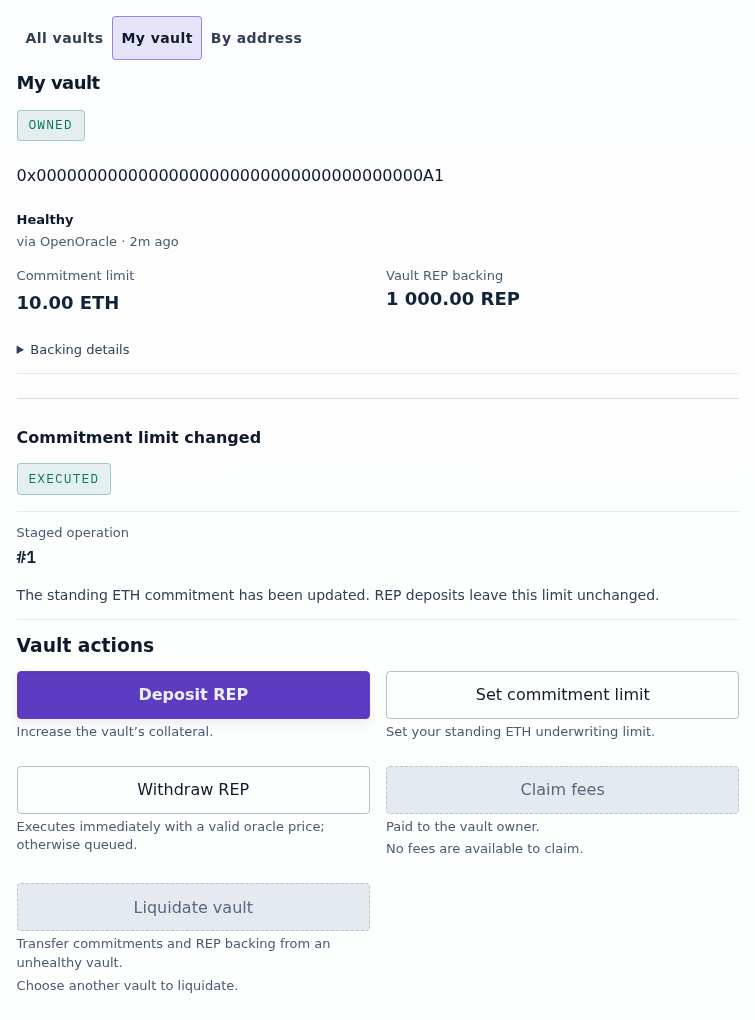
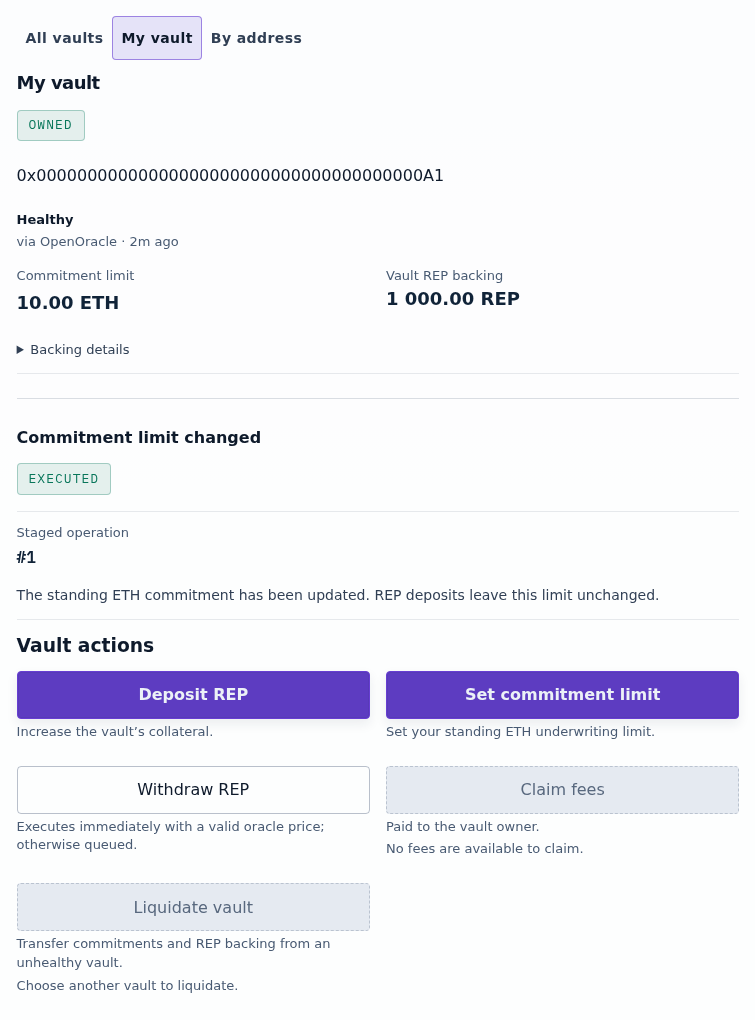
Clarify Statoblast vault funding and commitment actions

Changed region(s): [[0.4874, 0.6382, 1.0, 0.7294]]

diff --git a/ui/statoblast/ts/tests/features/security-pools/securityVaultSection.test.tsx b/ui/statoblast/ts/tests/features/security-pools/securityVaultSection.test.tsx
@@ -1444,7 +1444,7 @@ describe('SecurityVaultSection', () => {
 		cleanupRenderedComponent = undefined
 	})
 
-	test('uses the loaded pool minimum for a new-vault deposit', async () => {
+	test.each(['', '0', '1', '20'])('uses the loaded pool minimum for a new-vault deposit of %s', async depositAmount => {
 		const configuredMinimum = 30n * 10n ** 18n
 		const renderedComponent = await renderIntoDocument(
 			<SecurityVaultSection
@@ -1459,7 +1459,7 @@ describe('SecurityVaultSection', () => {
 						minimumVaultRepDepositAttoRep: configuredMinimum,
 					}),
 					securityVaultForm: {
-						depositAmount: '20',
+						depositAmount,
 						repWithdrawAmount: '',
 						targetHealthFactor: '2',
 						securityPoolAddress: zeroAddress,
@@ -1475,6 +1475,29 @@ describe('SecurityVaultSection', () => {
 		const documentQueries = within(document.body)
 		fireEvent.click(documentQueries.getByRole('button', { name: 'Deposit REP' }))
 		expectTransactionButtonDisabled(documentQueries.getByRole('dialog', { name: 'Deposit REP' }), 'Deposit REP', 'New vaults require at least 30\u00a0REP in the first deposit.')
+	})
+
+	test('promotes the commitment launcher when REP is deposited and keeps deposit primary', async () => {
+		const backing = signal(0n)
+		const props = createSecurityVaultSectionProps({ modalFirst: true })
+		const Harness = () => <SecurityVaultSection {...props} securityVaultDetails={createSecurityVaultDetails({ vaultAttoRepBacking: backing.value, underwritingLimitAttoEth: 0n, disputeStakedAttoRep: 0n, claimableFeesAttoEth: 0n })} />
+		cleanupRenderedComponent = (await renderIntoDocument(<Harness />)).cleanup
+		const deposit = within(document.body).getByRole('button', { name: 'Deposit REP' })
+		const commitment = within(document.body).getByRole('button', { name: 'Set commitment limit' })
+		expect(deposit.classList.contains('primary')).toBe(true)
+		expect(commitment.classList.contains('secondary')).toBe(true)
+		await act(() => {
+			backing.value = 1n
+		})
+		expect(deposit.classList.contains('primary')).toBe(true)
+		expect(commitment.classList.contains('primary')).toBe(true)
+		expect(commitment.hasAttribute('disabled')).toBe(false)
+		fireEvent.click(commitment)
+		expect(within(document.body).getByRole('dialog', { name: 'Set commitment limit' })).not.toBeNull()
+		await act(() => {
+			backing.value = 0n
+		})
+		expect(commitment.classList.contains('secondary')).toBe(true)
 	})
 
 	test('checks a first deposit against the pool totals read with the vault, not the pool listing', async () => {

diff --git a/ui/statoblast/ts/tests/features/security-pools/securityVaultGuards.test.ts b/ui/statoblast/ts/tests/features/security-pools/securityVaultGuards.test.ts
@@ -246,6 +246,17 @@ describe('security vault guards', () => {
 })
 
 describe('vault deposit minimum availability', () => {
+	test('explains the first-deposit minimum before an amount or approval is supplied', () => {
+		const base = { approvalSatisfied: false, currentVaultRepBackingAttoRep: 0n, depositAmount: 0n, isDepositBelowMinimum: false, minimumVaultRepDepositAttoRep: 110n * ATTO_ETH_PER_ETH, walletRepShortfallAttoRep: undefined }
+		expect(getVaultDepositGuardMessage(base)).toBe('New vaults require at least 110\u00a0REP in the first deposit.')
+		expect(getVaultDepositGuardMessage({ ...base, currentVaultRepBackingAttoRep: ATTO_ETH_PER_ETH })).toBeUndefined()
+		expect(getVaultDepositGuardMessage({ ...base, currentVaultRepBackingAttoRep: undefined })).toBeUndefined()
+		expect(getVaultDepositGuardMessage({ ...base, depositAmount: undefined })).toBe('Enter a valid REP deposit amount.')
+		expect(getVaultDepositGuardMessage({ ...base, depositAmount: -ATTO_ETH_PER_ETH })).toBeUndefined()
+		expect(getVaultDepositGuardMessage({ ...base, minimumVaultRepDepositAttoRep: 0n })).toBeUndefined()
+		expect(getVaultDepositGuardMessage({ ...base, minimumVaultRepDepositAttoRep: undefined })).toBe(securityPoolCopy.vaultMinimumLoading)
+	})
+
 	// SecurityPool derives its minimum from theoretical supply when unconfigured, so an unloaded minimum must not be guessed.
 	test('blocks a deposit while the pool minimum vault REP is unknown', () => {
 		expect(getVaultDepositGuardMessage({ approvalSatisfied: true, depositAmount: 5n * ATTO_ETH_PER_ETH, isDepositBelowMinimum: false, minimumVaultRepDepositAttoRep: undefined, walletRepShortfallAttoRep: undefined })).toBe(securityPoolCopy.vaultMinimumLoading)

diff --git a/ui/statoblastShared/ts/features/security-pools/lib/securityVaultGuards.ts b/ui/statoblastShared/ts/features/security-pools/lib/securityVaultGuards.ts
@@ -36,6 +36,8 @@ export function getVaultDepositGuardMessage({
 	walletRepShortfallAttoRep: bigint | undefined
 }) {
 	if (depositAmount === undefined) return 'Enter a valid REP deposit amount.'
+	const firstDepositMinimumMessage = minimumVaultRepDepositAttoRep === undefined ? securityPoolCopy.vaultMinimumLoading : `New vaults require at least ${formatCurrencyBalanceWithUnit(minimumVaultRepDepositAttoRep, 'REP')} in the first deposit.`
+	if (depositAmount === 0n && currentVaultRepBackingAttoRep === 0n && minimumVaultRepDepositAttoRep !== 0n) return firstDepositMinimumMessage
 	if (depositAmount <= 0n) return undefined
 	const targetHealthFactorGuardMessage = getTargetHealthFactorGuardMessage(targetHealthFactor, minimumBackingRatioBps)
 	if (targetHealthFactorGuardMessage !== undefined) return targetHealthFactorGuardMessage
@@ -46,7 +48,7 @@ export function getVaultDepositGuardMessage({
 		// Pool-held REP-per-unit rounding can credit slightly less than the deposit, so an exact minimum can still fall short.
 		if (currentVaultRepBackingAttoRep !== undefined && currentVaultRepBackingAttoRep > 0n) return `This vault must hold at least ${formatCurrencyBalanceWithUnit(minimumVaultRepDepositAttoRep, 'REP')} after the deposit. Deposit more REP.`
 		if (depositAmount >= minimumVaultRepDepositAttoRep) return `Pool rounding would credit this vault slightly less than the ${formatCurrencyBalanceWithUnit(minimumVaultRepDepositAttoRep, 'REP')} minimum. Deposit a little more.`
-		return `New vaults require at least ${formatCurrencyBalanceWithUnit(minimumVaultRepDepositAttoRep, 'REP')} in the first deposit.`
+		return firstDepositMinimumMessage
 	}
 	return undefined
 }

diff --git a/ui/statoblastShared/ts/features/security-pools/components/SecurityVaultActionFields.tsx b/ui/statoblastShared/ts/features/security-pools/components/SecurityVaultActionFields.tsx
@@ -178,6 +178,7 @@ export function VaultDepositApprovalControl({
 
 export function VaultActionLaunchers({
 	claimingFees = false,
+	hasVaultRepBacking,
 	redeemRepAction,
 	refreshVaultActionsDescriptionId,
 	securityVaultError,
@@ -190,6 +191,7 @@ export function VaultActionLaunchers({
 	walletRepBalanceError,
 }: {
 	claimingFees?: boolean
+	hasVaultRepBacking: boolean
 	redeemRepAction?: ComponentChildren
 	refreshVaultActionsDescriptionId: string
 	securityVaultError: string | undefined
@@ -214,7 +216,7 @@ export function VaultActionLaunchers({
 						pending={action.key === 'claim-fees' && claimingFees}
 						pendingLabel={action.key === 'claim-fees' ? securityPoolCopy.claimingFees : commonCopy.opening}
 						onClick={() => action.onAction?.()}
-						tone={action.key === 'deposit-rep' ? 'primary' : 'secondary'}
+						tone={action.key === 'deposit-rep' || (action.key === 'adjust-backing' && hasVaultRepBacking) ? 'primary' : 'secondary'}
 						availability={withWalletBlocker({ disabled: action.readiness === 'blocked' || action.onAction === undefined || action.blocker !== undefined, reason: action.blocker }, action.walletBlocker)}
 					/>
 				)}

diff --git a/ui/statoblastShared/ts/features/security-pools/components/SecurityVaultSection.tsx b/ui/statoblastShared/ts/features/security-pools/components/SecurityVaultSection.tsx
@@ -428,6 +428,7 @@ export function SecurityVaultSection({
 			) : undefined}
 			<VaultActionLaunchers
 				claimingFees={securityVaultActiveAction === 'redeemFees'}
+				hasVaultRepBacking={(currentSelectedVaultDetails?.vaultAttoRepBacking ?? 0n) > 0n}
 				redeemRepAction={effectiveRepExitMode === 'redeem' ? repExitActionButton : undefined}
 				refreshVaultActionsDescriptionId={refreshVaultActionsDescriptionId}
 				securityVaultError={securityVaultError}
